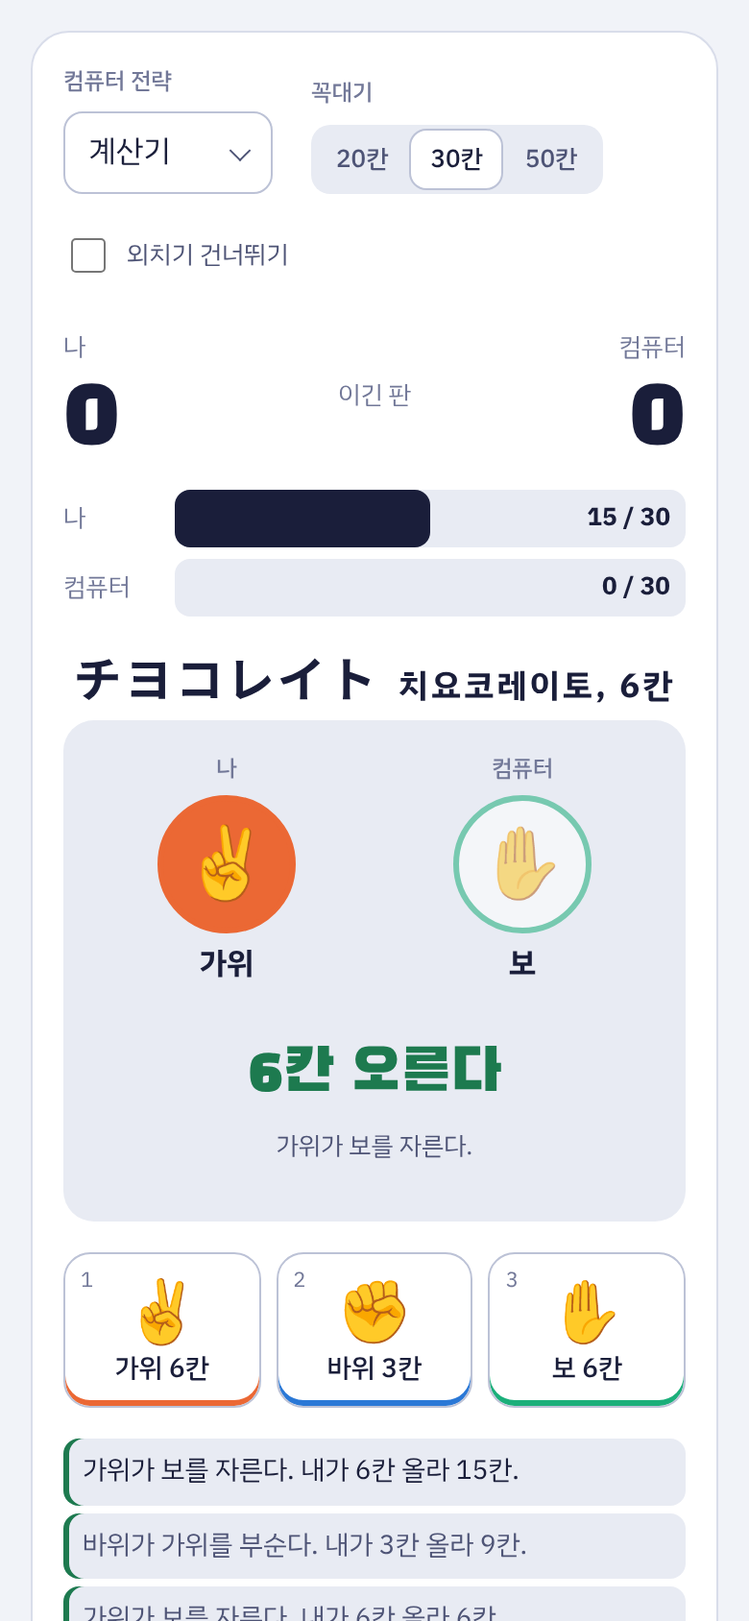
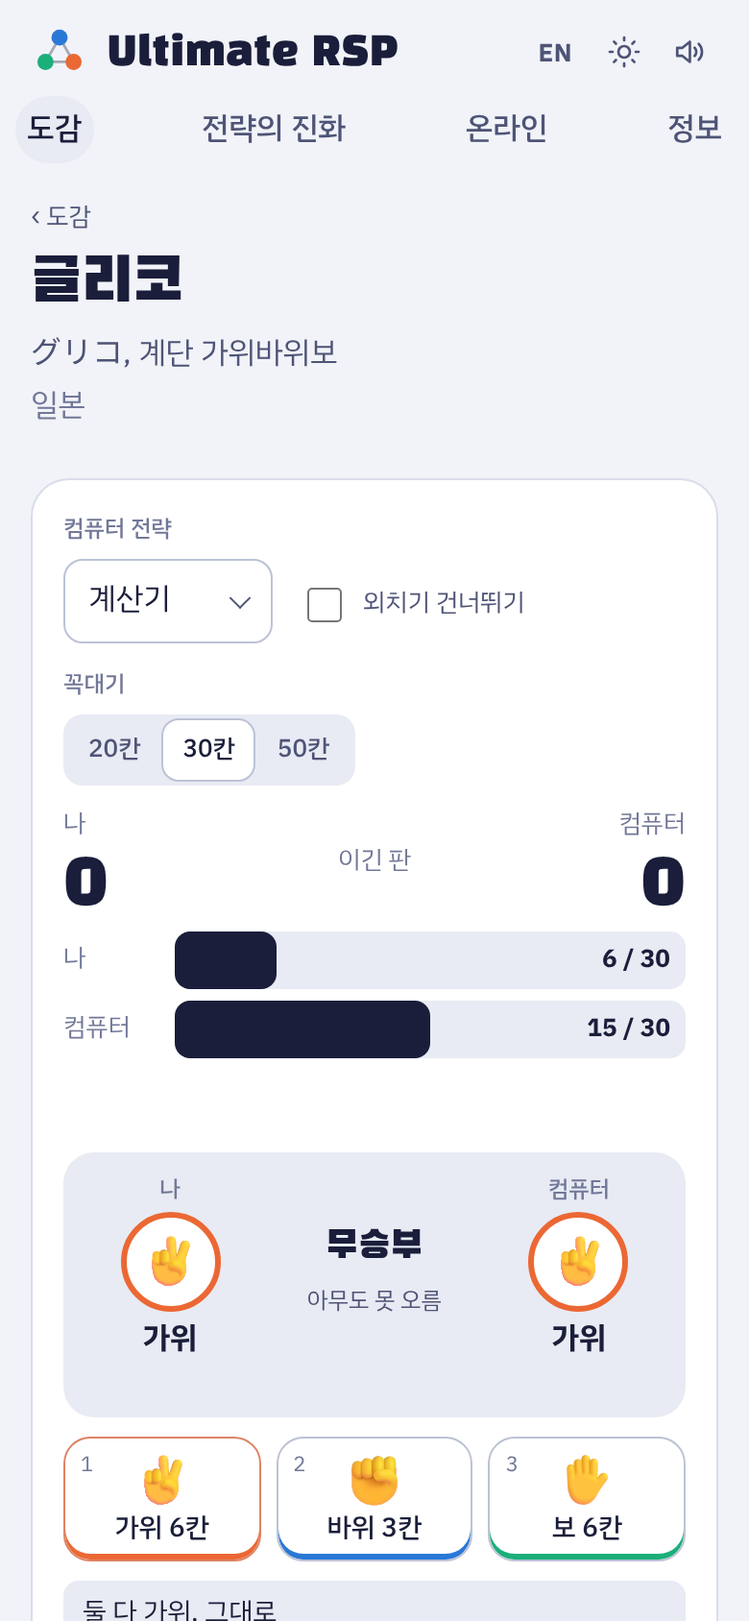
README를 지금 앱에 맞추기 / Bring the README up to date
- 온라인 갈래를 새로 씀: 랜덤 매칭과 순위, 방(코드·시간·인원·되찾기), 도전장(여럿·24시간 공개·30일), 이모트, Google·카카오 로그인과 개인정보 처리방침
- 소리(효과음·배경음악·소리 단추), 저장되는 곳, 전략의 진화 한 화면·← → 키를 더함
- 계산 절에 온라인 순위(Elo) 규칙, 직접 돌려 보기에 로컬 서버와 ?server=
- 판정 예를 지금 문장으로('종이가 바위를 감쌈'), 명령 가위바위보 '이기기·지기·비기기', 전략 표를 화면 설명과 같게
- 폴더 구조(privacy.html, sound, online 계정, server 기능, 시험 목록), 말투 규칙 한 줄, 라이선스 표에 server/, 마지막 줄 '남겨 주십시오'
- 화면 캡처 6장을 지금 화면으로 다시 찍고 온라인 첫 화면을 더함

Claude-Session: https://claude.ai/code/session_01TS8TbPNqqizJQWpYfz3vMp

diff --git a/README.md b/README.md
@@ -7,40 +7,41 @@
 </p>
 
 <p align="center">
-  <img src="docs/screenshots/home.png" alt="첫 화면: '궁극의 가위바위보' 제목과 바로 한 판 버튼, 손 15개가 서로 이기고 지는 사이를 선으로 이은 고리 그림" width="100%">
+  <img src="docs/screenshots/home.png" alt="첫 화면: '궁극의 가위바위보' 제목과 바로 한 판 단추, 손 15개가 서로 이기고 지는 사이를 선으로 이은 고리 그림" width="100%">
 </p>
 
-가위바위보와 그 변종 52가지를 모아 둔 웹 앱입니다. 일본의 옛 손 놀이인 무시켄과 키츠네켄, 손이 101개인 RPS-101, 묵찌빠와 하나빼기 같은 놀이까지 규칙을 읽고 바로 컴퓨터와 겨뤄 볼 수 있습니다. '전략의 진화'에서는 컴퓨터 전략 아홉 가지가 리그를 거듭할 때 어떤 전략이 퍼지는지 장을 넘기며 봅니다. 가위바위보처럼 서로 물고 물리는 생물이 어떻게 함께 사는지도 볼 수 있습니다.
+가위바위보와 그 변종 52가지를 모아 둔 웹 앱입니다. 일본의 옛 손 놀이인 무시켄과 키츠네켄, 손이 101개인 RPS-101, 묵찌빠와 하나빼기 같은 놀이까지 규칙을 읽고 바로 컴퓨터와 겨뤄 볼 수 있습니다. 온라인에서는 아무나와 붙거나, 방을 열어 친구와 하거나, 손을 숨긴 도전장을 링크로 보냅니다. '전략의 진화'에서는 컴퓨터 전략 아홉 가지가 리그를 거듭할 때 어떤 전략이 퍼지는지 장을 넘기며 봅니다.
 
 ## 쓰는 법
 
 1. `도감`에서 해 보고 싶은 가위바위보를 고릅니다.
 2. 컴퓨터 전략과 판 수(단판, 삼세판, 5판 3선승, 끝없이)를 정하고 손을 냅니다. 숫자 키 1, 2, 3…으로도 냅니다.
-3. 위쪽 `전략의 진화` 탭에서 컴퓨터 전략들의 이야기를 장마다 넘겨 봅니다. 자연 속 가위바위보와 가위바위보 전쟁은 도감의 `지켜보는 가위바위보`에 있습니다.
+3. `온라인` 탭에서 사람과 겨룹니다. 랜덤 매칭, 방, 도전장 가운데 고릅니다.
+4. `전략의 진화` 탭에서 컴퓨터 전략들의 이야기를 장마다 넘겨 봅니다.
 
 ## 할 수 있는 것
 
 ### 도감
 
 <p align="center">
-  <img src="docs/screenshots/play.png" alt="다크 테마로 본 RPS-15: 왼쪽 고리 그림에서 종이가 바위로 화살표를 긋고, 오른쪽에서 종이로 바위를 이긴 판 결과" width="100%">
+  <img src="docs/screenshots/play.png" alt="다크 테마로 본 RPS-15: 왼쪽 고리 그림에서 종이가 이기는 손 일곱으로 화살표가 뻗어 있고, 오른쪽에서 종이로 바위를 이긴 판 결과" width="100%">
 </p>
 
 - 셋이 물고 물리는 놀이 13가지: 가위바위보, 무시켄, 키츠네켄, 토라켄, 수트(개미·사람·코끼리), 새·물·돌, 곰·사냥꾼·닌자, 호랑이·막대기·닭, 거인·마법사·요정, 할머니·용사·용, 곰·물고기·모기, 악수·주먹 인사·포옹, 거꾸로 가위바위보.
 - 손을 더한 변종 13가지: 우물, 다이너마이트, 불과 물, 막대기·호랑이·닭·벌레, 가위바위보 도마뱀 스팍, 원숭이·로봇·해적·닌자·좀비, RPS-7·9·11·15·25·101. 손 개수(3–101개)와 이기는 개수를 정해 `직접 만들기`로 새 변종을 만들 수도 있습니다.
 - 변종마다 누가 누구를 이기는지 고리 그림으로 보여 줍니다. 손을 누르면 그 손이 이기는 쪽과 지는 쪽이 드러나고, 판을 할 때마다 이긴 손에서 진 손으로 화살표가 그어집니다.
 - 손이 고르지 않은 변종은 최적 비율을 계산해 보여 줍니다. 우물에서는 바위를, 다이너마이트에서는 보를 아예 내지 않는 것이 최선입니다.
-- 판정은 "종이가 바위를 감싼다"처럼 문장으로 알려 줍니다. 손 이름에 맞춰 조사(이/가, 을/를)를 붙입니다. 영어판에서는 "Paper covers rock"처럼 나옵니다.
+- 판정은 "종이가 바위를 감쌈"처럼 짧은 문장으로 알려 줍니다. 손 이름에 맞춰 조사(이/가, 을/를)를 붙입니다. 영어판에서는 "Paper covers rock"처럼 나옵니다.
 
 ### 가위바위보 위에 쌓은 놀이, 닮은 놀이, 여럿이 하는 놀이
 
 <p align="center">
-  <img src="docs/screenshots/mukjjippa.png" alt="묵찌빠: 내가 공격으로 찌를 외치고 컴퓨터가 보를 내서 공격이 그대로 이어지는 화면" height="520">
+  <img src="docs/screenshots/mukjjippa.png" alt="묵찌빠: 내가 보로 컴퓨터의 묵을 이겨 공격이 넘어온 화면. 아래에 판마다 공격이 오간 기록" height="520">
   &nbsp;
-  <img src="docs/screenshots/glico.png" alt="글리코: 가위로 이겨 チヨコレイト 6칸을 올라 30칸 가운데 15칸에 온 화면" height="520">
+  <img src="docs/screenshots/glico.png" alt="글리코: 30칸 가운데 내가 6칸, 컴퓨터가 15칸에 있고, 둘 다 가위를 내서 아무도 못 오른 화면" height="520">
 </p>
 
-- 묵찌빠, 아치무이테호이, 하나빼기, 글리코, 한정 가위바위보(카드 12장과 별 3개), 다이너마이트와 물풍선, 명령 가위바위보(30초 동안 이겨라·져라·비겨라), 뿅망치 가위바위보, 돈파파, 가위바위보 릴레이, 황제와 노예, 가위바위보 장기.
+- 묵찌빠, 아치무이테호이, 하나빼기, 글리코, 한정 가위바위보(카드 12장과 별 3개), 다이너마이트와 물풍선, 명령 가위바위보(30초 동안 이기기·지기·비기기), 뿅망치 가위바위보, 돈파파, 가위바위보 릴레이, 황제와 노예, 가위바위보 장기.
 - 가위바위보를 닮은 놀이: 동전 순서 겨루기, 이상한 주사위, 모라, 블로토 대령. 어떤 수를 골라도 그 수를 이기는 수가 있는 놀이입니다.
 - 여럿이 가위바위보(3–10명), 가위바위보 기차, 진화 가위바위보(알·병아리·닭·공룡·왕), 많은 손 이기기, 셋 다 나오면 가위 승, 진행자 이기기, 편 가위바위보 술래잡기, 편 가르기.
 - 글리코와 한정 가위바위보는 컴퓨터가 남은 칸이나 남은 카드를 보고 계산한 최적 비율대로 냅니다.
@@ -49,17 +50,31 @@
 
 컴퓨터는 9가지 전략 가운데 하나로 냅니다.
 
-| 전략 | 어떻게 내나 |
+| 전략 | 내는 법 |
 | --- | --- |
-| 주사위 | 아무 손이나 같은 확률로 낸다 |
-| 계산기 | 최적 비율대로 낸다. 길게 보면 누구에게도 지지 않는다 |
-| 사람 흉내 | 이기면 같은 손을 또 내고, 지면 방금 자기를 이긴 손을 이기는 손으로 바꾼다 |
-| 버릇 읽기 | 상대가 요즘 자주 내는 손을 노린다 |
-| 수 읽기 | 상대가 내 온 순서를 외워 다음 손을 짐작한다 |
-| 돌림 | 고리 차례대로 돌아가며 낸다 |
-| 고집 | 한 손만 계속 낸다 |
-| 따라쟁이 | 상대가 방금 낸 손을 따라 낸다 |
-| 앙갚음 | 상대가 방금 낸 손을 이기는 손을 낸다 |
+| 주사위 | 아무 손이나 같은 확률로 냅니다 |
+| 계산기 | 최적 비율대로 냅니다. 길게 보면 누구에게도 지지 않습니다 |
+| 사람 흉내 | 이기면 같은 손을 또 내고, 지면 방금 자기를 이긴 손을 이기는 손으로 바꿉니다 |
+| 버릇 읽기 | 상대가 요즘 자주 내는 손을 노립니다 |
+| 수 읽기 | 상대가 지금까지 낸 순서를 외워 다음 손을 짐작합니다 |
+| 돌림 | 고리 차례대로 돌아가며 냅니다 |
+| 고집 | 한 손만 계속 냅니다 |
+| 따라쟁이 | 상대가 방금 낸 손을 따라 냅니다 |
+| 앙갚음 | 상대가 방금 낸 손을 이기는 손을 냅니다 |
+
+### 온라인
+
+<p align="center">
+  <img src="docs/screenshots/online.png" alt="온라인 첫 화면: 이름 칩 아래 랜덤 매칭, 방, 도전장 세 칸. 랜덤 칸에는 가위바위보 순위, 방 칸에는 미리 채운 방 코드, 도전장 칸에는 밀랍으로 봉인한 두루마리" width="100%">
+</p>
+
+위쪽 `온라인` 탭에서 사람과 겨룹니다. 가입하지 않아도 이름과 그림만 정하면 됩니다. 판정과 컴퓨터의 손은 서버가 정하고, 모두 낼 때까지 손은 서버만 압니다.
+
+- 랜덤 매칭: 게임과 판 수(단판, 삼세판, 5판 3선승)를 고르면 아무나와 짝을 짓습니다. 20초 안에 짝이 없으면 기다리는 동안 컴퓨터와 할 수 있습니다. 사람끼리 끝난 경기는 게임마다 따로 매기는 순위에 듭니다. 여럿이 가위바위보도 랜덤으로 모입니다(3명이 모이면 10초 뒤 시작, 순위 없음).
+- 방: 네 글자 코드로 친구를 부릅니다. 방장이 게임, 판 수, 손을 낼 시간(없음, 10·20·30·60초), 컴퓨터 전략을 정하고, 빈자리는 컴퓨터가 채웁니다. 손 하나짜리 변종은 둘이서 하고, 여럿이 가위바위보는 손이 셋인 바탕이면 8명, 손이 더 많으면 20명까지 합니다. 연결이 끊겨도 1분 안에 돌아오면 자리를 되찾습니다.
+- 도전장: 게임과 손을 골라 밀랍으로 봉인한 링크를 보냅니다. 받은 사람은 그 손을 모른 채 손을 고르고 결과를 봅니다. 여럿(50명까지)이 받게 하면 정원이 차거나, 만든 사람이 닫거나, 24시간이 지날 때 결과를 한꺼번에 공개합니다. 도전장은 30일 동안 남습니다.
+- 말은 정해진 이모트 여덟 가지로만 주고받습니다. 자유 채팅은 없습니다.
+- 로그인은 고를 수 있습니다. Google이나 카카오로 로그인하면 이름, 그림, 기록, 순위가 계정에 저장되어 다른 기기에서도 이어집니다. 받는 정보와 두는 기간은 [개인정보 처리방침](https://archi142857.github.io/ultimate-rsp/privacy.html)에 적었습니다.
 
 ### 전략의 진화
 
@@ -67,7 +82,7 @@
   <img src="docs/screenshots/evolution.png" alt="전략의 진화 4장: 왼쪽에 이야기와 해설 상자, 가운데에 7세대 만에 따라쟁이 25명으로 채워진 고리, 오른쪽에 세대마다 전략별 사람 수를 쌓은 그래프" width="100%">
 </p>
 
-위쪽 탭에서 엽니다. Nicky Case의 '신뢰의 진화'(The Evolution of Trust, 2017)처럼 11장을 넘기며 직접 해 보는 이야기입니다.
+위쪽 탭에서 엽니다. Nicky Case의 '신뢰의 진화'(The Evolution of Trust, 2017)처럼 11장을 넘기며 직접 해 보는 이야기입니다. 장마다 이야기와 고리, 그래프가 한 화면에 들어가고, ← → 키로도 넘깁니다.
 
 - 모르는 상대와 한 판, 정체를 모르는 컴퓨터 다섯과 10판씩 해 보고 버릇을 읽습니다.
 - 다섯이 리그를 한 번 하기 전에 누가 1등일지 겁니다.
@@ -78,7 +93,7 @@
 ### 지켜보는 가위바위보
 
 <p align="center">
-  <img src="docs/screenshots/lattice.png" alt="다크 테마로 본 격자 생태계: 주황·파랑·노랑 목 도마뱀 세 무리가 격자 위에서 얼룩을 이루고, 아래 그래프에서 세 무리의 비율이 번갈아 오르내린다" height="520">
+  <img src="docs/screenshots/lattice.png" alt="다크 테마로 본 격자 생태계: 주황·파랑·노랑 목 도마뱀 세 무리가 격자 위에서 얼룩을 이루고, 아래 그래프에서 세 무리의 비율이 30% 언저리를 오르내린다" height="520">
 </p>
 
 도감 맨 아래 갈래입니다. 직접 하지 않고 지켜봅니다.
@@ -90,7 +105,8 @@
 
 - 화면 언어는 한국어와 영어 가운데 고릅니다. 위쪽 `EN`/`한` 단추로 바꾸고, 처음 열 때는 브라우저 언어를 따릅니다. 변종 이름과 설명, 판정 문장, 놀이 안내까지 모두 바뀝니다.
 - 테마는 기기 설정, 라이트, 다크 가운데 고릅니다.
-- 가입이 필요 없습니다. 전적과 설정은 이 브라우저에만 저장됩니다.
+- 효과음과 배경음악이 있습니다. 손을 내면 가위는 싹둑, 바위는 딱, 보는 책장 넘기는 소리가 나고, 배경음악은 마림바와 책상 리듬으로 된 67초짜리 곡입니다. 처음에는 둘 다 켜져 있고, 위쪽 소리 단추를 누르면 효과음과 배경음악을 따로 켜고 끄고 음량을 정합니다.
+- 가입하지 않아도 다 쓸 수 있습니다. 컴퓨터와 한 전적과 설정은 이 브라우저에만 남고, 온라인의 이름·도전장·순위는 서버에 남습니다.
 - 키보드만으로 다 할 수 있고, 판 결과를 스크린리더가 읽어 줍니다. 기기에서 움직임 줄이기를 켜면 애니메이션을 줄입니다.
 
 ## 계산은 이렇게 합니다
@@ -102,6 +118,7 @@
 - 한정 가위바위보는 남은 카드와 별로 나뉘는 형편(처음부터 2,626가지)마다 영합 게임을 풀어 거꾸로 올라갑니다.
 - 여럿이 가위바위보에서 n명이 아무렇게나 낼 때 한 번에 승부가 날 확률은 3(2ⁿ − 2)/3ⁿ입니다. 8명이면 12%쯤입니다.
 - 격자 생태계는 Reichenbach, Mobilia & Frey(2007)의 모형입니다. 칸마다 한 개체가 살거나 비어 있고, 이웃 둘을 골라 고르기(이긴 쪽이 진 쪽을 없앤다), 번식(빈칸에 퍼진다), 자리 바꾸기 가운데 하나가 일어납니다. 이동성은 M = 2ε/N입니다.
+- 온라인 순위는 게임마다 따로 매기는 Elo 점수입니다. 1000점에서 시작해 처음 10경기는 크게(K = 40), 그 뒤로는 작게(K = 20) 움직이고, 5경기를 하면 순위표에 오릅니다. 순위 경기를 5번 하기 전인 상대와 한 경기는 점수가 반만 움직이고, 같은 곳에서 접속한 두 사람의 경기는 세지 않습니다.
 
 변종마다 규칙과 출처는 [docs/variants.md](docs/variants.md)에 정리해 두었습니다.
 
@@ -111,9 +128,10 @@
 python -m http.server 8000 -d web                  # http://localhost:8000 에서 웹 앱
 node --test                                        # 테스트 (Node 20 이상)
 node scripts/variants_doc.mjs > docs/variants.md   # 변종 목록 문서 다시 만들기
+cd server && npm ci && npx wrangler dev            # 온라인 서버 (http://localhost:8787)
 ```
 
-빌드 단계가 없습니다. `web/` 폴더가 그대로 웹 앱이고, 브라우저가 ES 모듈을 바로 불러옵니다. `index.html`을 더블클릭해서 열면 모듈을 불러오지 못하니 위처럼 간단한 서버로 엽니다.
+빌드 단계가 없습니다. `web/` 폴더가 그대로 웹 앱이고, 브라우저가 ES 모듈을 바로 불러옵니다. `index.html`을 더블클릭해서 열면 모듈을 불러오지 못하니 위처럼 간단한 서버로 엽니다. 온라인 화면을 로컬 서버에 붙이려면 주소에 `?server=http://localhost:8787`을 붙입니다(예: `http://localhost:8000/?server=http://localhost:8787#/play`).
 
 <details>
 <summary>폴더 구조</summary>
@@ -121,12 +139,14 @@ node scripts/variants_doc.mjs > docs/variants.md   # 변종 목록 문서 다시
 ```
 web/                          웹 앱 (GitHub Pages)
   index.html, style.css, online.css
-  icons/                      파비콘
+  privacy.html                개인정보 처리방침
+  icons/                      파비콘, 양피지·이모트·등장인물 그림
   art/                        손·소품 그림 SVG (Fluent UI Emoji, 없는 손은 이모지)
-  js/app.js                   주소(#/…)에 따라 화면을 고른다
+  sound/                      효과음 녹음 (CC0 녹음을 다듬은 것, 출처는 sound/LICENSE)
+  js/app.js                   주소(#/…)에 따라 화면을 고름
   js/i18n.js, js/i18n/en.js   화면 언어(한국어·영어)와 영어 사전
   js/core/                    판정(engine), 최적 비율(lp), 컴퓨터 전략(bots), 난수(rng), 조사(josa),
-                              온라인 랭킹 점수(rating)
+                              온라인 순위 점수(rating)
   js/data/                    도감(catalog), 도감 영어(catalog-en), RPS 확장판 판정 문장(verbs),
                               직접 만들기 손 모음(custom), 손 그림 목록(art-files),
                               놀이 소품 그림(props), 온라인 대전 게임 목록(online)
@@ -136,22 +156,22 @@ web/                          웹 앱 (GitHub Pages)
                               장기(shogi), 동전 순서(penney), 주사위(dice), 모라(morra), 블로토(blotto),
                               진행자(host), 편 놀이(teams), 누르기 빠르기(reaction)
   js/sims/                    리그 계산, 전략의 진화(세대 계산, 장마다 값·글), 격자 생태계, 가위바위보 전쟁
-  js/ui/                      DOM 도구, 색, 고리 그림, 손 그림(art), 저장, 공통 위젯
+  js/ui/                      DOM 도구, 색, 고리 그림, 손 그림(art), 저장, 알림, 소리 단추, 공통 위젯
   js/views/                   화면
-  js/online/                  온라인 대전 화면 (도전장, 방, 랜덤 매칭)
-  js/sound/                   소리 엔진과 효과음
-  sound/                      효과음 녹음 (CC0 녹음을 다듬은 것, 출처는 sound/LICENSE)
-server/                       온라인 대전 서버 (Cloudflare Workers + Durable Objects)
-tests/                        node --test (판정, 최적 비율, 놀이 규칙, 시뮬레이션, 손 그림, 영어판, 온라인, 소리)
+  js/online/                  온라인 화면 (첫 화면, 랜덤 매칭, 방, 도전장, 순위표, 이름과 그림, 계정과 로그인)
+  js/sound/                   소리 엔진, 효과음, 배경음악(music)
+server/                       온라인 대전 서버 (Cloudflare Workers + Durable Objects):
+                              도전장, 방, 랜덤 매칭, 순위표, 계정과 로그인
+tests/                        node --test (판정, 최적 비율, 놀이 규칙, 전략의 진화, 손 그림, 영어판, 온라인, 소리)
 scripts/
-  stamp.py                    배포할 때 스크립트·스타일 주소에 판(?v=)을 붙인다
+  stamp.py                    배포할 때 스크립트·스타일 주소에 판(?v=)을 붙임
   variants_doc.mjs            catalog.js → docs/variants.md
   art_list.mjs                web/art/ → js/data/art-files.js (그림 목록과 규격 검사)
 docs/
   variants.md                 변종마다 규칙과 출처
   screenshots/                이 README의 화면 캡처
-.github/workflows/pages.yml   테스트하고 GitHub Pages로 올린다
-.github/workflows/server.yml  서버를 Cloudflare에 올린다
+.github/workflows/pages.yml   테스트하고 GitHub Pages로 올림
+.github/workflows/server.yml  서버를 Cloudflare에 올림
 ```
 
 </details>
@@ -160,11 +180,13 @@ docs/
 
 - 변종을 더하려면 `web/js/data/catalog.js`에 한 항목을 적습니다. 손과 `rel`(누가 누구를 어떻게 이기나) 또는 `cycle`(고리에서 뒤로 몇 개를 이기나)만 적으면 판정, 고리 그림, 최적 비율, 플레이 화면이 따라옵니다. 그다음 `docs/variants.md`를 다시 만듭니다.
 - 판 흐름이 있는 놀이는 규칙을 `js/games/`에, 화면을 `js/views/`에 나눠 둡니다. 규칙 쪽은 DOM 없이 돌아서 `node --test`로 시험합니다.
-- 손 그림은 `js/ui/art.js` 한 곳에서 찍습니다. 손마다 그림 이름(`art`, 없으면 `id`)이 있고, `web/art/<그림 이름>.svg`가 있으면 그 그림을, 없으면 이모지를 씁니다. 그림은 Microsoft Fluent UI Emoji를 64×64 에 감싼 것이라 어느 기기에서나 같은 모양으로 보입니다. 그림을 넣거나 빼면 `node scripts/art_list.mjs`로 목록을 다시 만듭니다.
+- 손 그림은 `js/ui/art.js` 한 곳에서 찍습니다. 손마다 그림 이름(`art`, 없으면 `id`)이 있고, `web/art/<그림 이름>.svg`가 있으면 그 그림을, 없으면 이모지를 씁니다. 그림은 Microsoft Fluent UI Emoji를 64×64에 감싼 것이라 어느 기기에서나 같은 모양으로 보입니다. 그림을 넣거나 빼면 `node scripts/art_list.mjs`로 목록을 다시 만듭니다.
 - 손 이름 뒤 조사는 `js/core/josa.js`의 `josa()`로 붙입니다. 받침에 따라 이/가, 을/를, 과/와, 으로/로를 고릅니다.
-- 화면 글은 한국어 문장을 `t("{a:이가} {b:을를} 이긴다", { a, b })`처럼 감싸 씁니다. 영어는 `js/i18n/en.js`에 같은 한국어를 열쇠로 적고, 영어에서만 `{n|win|wins}`처럼 단수·복수를 고릅니다. 같은 한국어가 자리에 따라 영어로 달리 옮겨지면 `t("@stat:차례")`처럼 쓰임새를 붙입니다(한국어로 낼 때는 떨어집니다). 변종을 더하면 영어 이름과 설명, 판정 동사를 `js/data/catalog-en.js`에도 적습니다. 빠진 번역은 `tests/i18n.test.mjs`가 찾아냅니다.
+- 화면 글은 한국어 문장을 `t("{a:이가} {b:을를} 이김", { a, b })`처럼 감싸 씁니다. 영어는 `js/i18n/en.js`에 같은 한국어를 열쇠로 적고, 영어에서만 `{n|win|wins}`처럼 단수·복수를 고릅니다. 같은 한국어가 자리에 따라 영어로 달리 옮겨지면 `t("@stat:차례")`처럼 쓰임새를 붙입니다(한국어로 낼 때는 떨어집니다). 변종을 더하면 영어 이름과 설명, 판정 동사를 `js/data/catalog-en.js`에도 적습니다. 빠진 번역은 `tests/i18n.test.mjs`가 찾아냅니다.
+- 화면 글의 말투: 설명·안내·오류처럼 문장인 글은 '-습니다'로 쓰고, 단추·제목·상태·결과·판정 줄은 '내 차례', '승리', '바위가 가위를 부숨'처럼 마침표 없이 짧게 씁니다.
+- 소리는 화면에서 `js/sound/index.js`의 `sfx("win")`처럼 이름만 불러 냅니다. 쓰는 법은 `web/js/sound/README.md`에 있습니다.
 - 손 색은 `js/ui/colors.js`의 팔레트를 순서대로 씁니다. 색각 이상에서도 이웃한 색이 구별되는지 검사한 순서라서 바꾸지 않습니다.
-- `main`에 푸시하면 Actions가 테스트를 돌리고 `web/`을 GitHub Pages로 올립니다. 처음 한 번은 레포 Settings → Pages → Source를 `GitHub Actions`로 바꿔야 합니다.
+- `main`에 푸시하면 Actions가 테스트를 돌리고 `web/`을 GitHub Pages로 올립니다. 서버나 서버가 쓰는 규칙 파일이 바뀌면 Cloudflare에도 올립니다. 처음 한 번은 레포 Settings → Pages → Source를 `GitHub Actions`로 바꿔야 합니다.
 
 ## 라이선스
 
@@ -172,9 +194,9 @@ docs/
 
 | 무엇 | 조건 |
 | --- | --- |
-| 코드: `web/`, `scripts/`, `tests/` | MIT (`LICENSE`) |
+| 코드: `web/`, `server/`, `scripts/`, `tests/` | MIT (`LICENSE`) |
 | 글꼴: Black Han Sans, IBM Plex Sans KR. 저장소에 없고 jsDelivr의 Fontsource에서 불러옵니다 | SIL Open Font License 1.1 |
-| 효과음 녹음: `web/sound/*.wav`. CC0 1.0으로 공개된 녹음을 잘라 다듬은 것입니다. 나머지 소리는 코드로 만듭니다 | CC0 1.0. 출처는 `web/sound/LICENSE` |
+| 효과음 녹음: `web/sound/*.wav`. CC0 1.0으로 공개된 녹음을 잘라 다듬은 것입니다. 나머지 효과음과 배경음악은 코드로 만듭니다 | CC0 1.0. 출처는 `web/sound/LICENSE` |
 | 손 그림: `web/art/*.svg`. [Microsoft Fluent UI Emoji](https://github.com/microsoft/fluentui-emoji)를 64×64에 감싼 것입니다. 아직 그림이 없는 손은 보는 기기의 이모지 글꼴로 그립니다 | MIT (© Microsoft Corporation). 고지문은 `web/art/LICENSE-fluentui-emoji.txt` |
 | 놀이 규칙 | 놀이를 만든 사람과 전해 온 문화의 것입니다. RPS-7–101의 손 구성과 고리 순서는 David C. Lovelace([umop.com](https://www.umop.com/rps.htm))가 만들었습니다. 판정 문장과 설명은 이 앱에서 새로 썼습니다. 출처는 [docs/variants.md](docs/variants.md)에 있습니다 |
 | 이름 `Ultimate RSP`, 아이콘(`web/icons/`), 화면 캡처(`docs/screenshots/`) | 라이선스를 주지 않습니다(MIT 대상이 아닙니다) |
@@ -183,4 +205,4 @@ docs/
 
 서울대학교 동물생명공학전공 25학번 이영표 · sanger.lee138@gmail.com
 
-버그 제보와 새 변종 제안은 [GitHub 이슈](https://github.com/Archi142857/ultimate-rsp/issues)에 남겨 주세요.
+버그 제보와 새 변종 제안은 [GitHub 이슈](https://github.com/Archi142857/ultimate-rsp/issues)에 남겨 주십시오.
